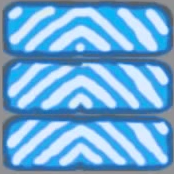
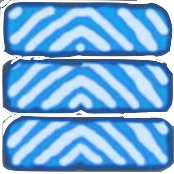
Tutorial #31, trying to show just part of the platform image, but it is not working correctly.  Bad graphics

Changed region(s): [[0.0, 0.0, 1.0, 1.0]]

diff --git a/src/Platform.java b/src/Platform.java
@@ -15,8 +15,8 @@ public class Platform {
 	public Platform(int x, int y) {
 		this.x = x;
 		this.y = y;
-		width = 120;
-		height = 40;
+		width = 167;
+		height = 55;
 		dx = -1;
 		plat = Pictures.platform;
 	}
@@ -54,8 +54,9 @@ public class Platform {
 		g.setColor(Color.BLUE);
 		g.fillRect(x, y, width, height);
 		g.drawImage(plat, x, y, Pictures.sp);
+		g.drawImage(plat, x, y, x + width, y + height, 0, 0, 167, 55, Pictures.sp);
 	}
 
-	
+	// 167x55
 	
 }
